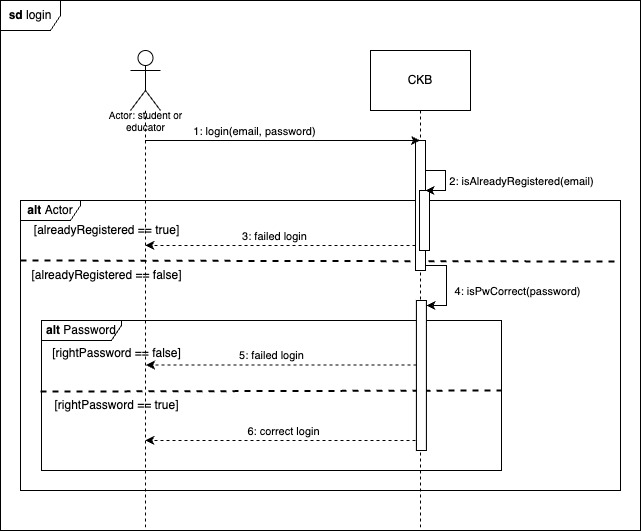
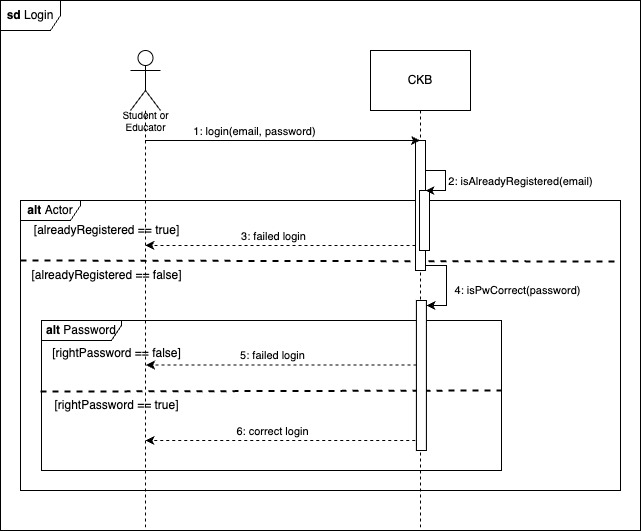
Update use cases and sequence diagrams

diff --git a/RASD/chapters/03_specific_requirements.tex b/RASD/chapters/03_specific_requirements.tex
@@ -31,22 +31,22 @@ network (LTE/3G/4G/5G).\\
 {1}
 {Login}
 {Student, Educator}
-{The actor is already registered in the system}
+{The actor is already registered in the system.}
 {
     \begin{enumerate}
-        \item The actor requires the Login Page
-        \item The system shows the Login Page to the actor
-        \item The actor inserts the credentials (email and passwors) in the form
-        \item The actor submits the form and sends it to the system
-        \item The system processes the information and shows a success message redirecting the user to the homepage
+        \item The actor requires the Login Page.
+        \item The system shows the Login Page to the actor.
+        \item The actor inserts the credentials (email and passwors) in the form.
+        \item The actor submits the form and sends it to the system.
+        \item The system processes the information and shows a success message redirecting the user to the homepage.
     \end{enumerate}
 }
-{The actor is correctly logged in and the homepage is displayed}
+{The actor is correctly logged in and the homepage is displayed.}
 {
-    The provided email or password submitted is wrong
+    The provided email or password submitted is wrong.
 }
 {
-    In case of exception the system will notify user with a human-readable message
+    In case of exception the system will notify user with a human-readable message.
 }
 \clearpage
 
@@ -54,41 +54,87 @@ network (LTE/3G/4G/5G).\\
 {2}
 {Registration} % name
 {Student, Educator, Email Service, GitHub Service} % actor
-{The actor browses and opens the webapp} % entry condition
+{The actor browses and opens the webapp.} % entry condition
 { % event flow
     \begin{enumerate}
-        \item The actor clicks the 'Sign up' button 
-        \item The actor fills the sign-up form with email and password
-        \item The actor submits the form and sends it to the system
-        \item The system calls Email Service API to send to the actor an email containing a secret code
-        \item The Email Service sends the email to the actor
-        \item The actor submits the received verification code
-        \item The system displays a success message about the verification of the email
-        \item The actor adds his personal information (name, surname, birth date) and submits the form
-        \item The student adds his GitHub username and submits the information
-        \item The system calls GitHub Service API to check if the username is valid
-        \item The GitHub Service sends the response to the system
-        \item The system displays a success message about the verification of GitHub username
-        \item The system processes the provided information and creates a new account
+        \item The actor clicks the 'Sign up' button.
+        \item The actor fills the sign-up form with email and password and submits the form.
+        \item The system calls Email Service API to send to the actor an email containing a secret code.
+        \item The Email Service sends the email to the actor.
+        \item The actor submits the received verification code.
+        \item The system displays a success message.
+        \item The actor adds his personal information (name, surname, birth date) and submits the form.
+        \item The student adds his GitHub username and submits the information.
+        \item The system calls GitHub Service API to check if the username is valid.
+        \item The GitHub Service sends the response to the system.
+        \item The system displays a success message about the verification of GitHub username.
+        \item The system processes the provided information and creates a new account.
     \end{enumerate}
 }
-{The actor signed up correctly} % exit condition
+{The actor signed up correctly.} % exit condition
 { % exceptions
     \begin{enumerate}
-        \item A required registration field is missing when the form is submitted
-        \item A provided email is already registered in the system
-        \item A wrong verification code is submitted
-        \item A wrong GitHub username is submitted
+        \item A required registration field is missing when the form is submitted.
+        \item A provided email is already registered in the system.
+        \item A wrong verification code is submitted.
+        \item A wrong GitHub username is submitted.
     \end{enumerate}
 }
 { % notes
-    All the exceptions are treated the same: the system will notify user with a human-readable message and the system asks to retry
+In case of exception the system will notify user with a human-readable message.
+}
+
+\usecase
+{10}
+{Evaluation} % name
+{Student, Educator, GitHub Service} % actor
+{The student has committed the code.} % entry condition
+{ % event flow
+    \begin{enumerate}
+        \item The student pushes the code to GitHub.
+        \item The GitHub service notify the system about the new push.
+        \item The system pulls the code from GitHub service.
+        \item The GitHub service provides the requested code to the system.
+        \item The system makes the automatic evaluation.
+        \item The system sets the calcutaed score to the code.
+        \item The system notify the student about the evaluation and the score assigned to his code.
+        \item The educator can get the code from the system.
+        \item The system provides the code to the educator.
+        \item The educator can manually evaluate the code at the end of the battle and set a score.
+        \item The system updates the score.
+    \end{enumerate}
+}
+{The system sends an email to the students.} % exit condition
+{ % exceptions
+ None. 
+}
+{ % notes
+}
+\clearpage
+
+\usecase
+{14}
+{Profile visualization} % name
+{Student, Educator} % actor
+{The actor is logged-in in the system.} % entry condition
+{ % event flow
+    \begin{enumerate}
+        \item The actor searches a student profile.
+        \item The system returns the selected student profile.
+    \end{enumerate}
+}
+{The actor visualizes the personal information of the student.} % exit condition
+{ % exceptions
+ The selected profile does not exist. 
+}
+{ % notes
+In case of exception the system will notify user with a human-readable message.
 }
 
 \subsection{Sequence Diagrams}
 \begin{figure}[H]
     \centering
-    \includegraphics[width=0.8\textwidth]{images/seq_diagrams/Registration.jpg}
+    \includegraphics[width=0.95\textwidth]{images/seq_diagrams/Registration.jpg}
     \caption{Registration sequence diagram}
     \label{fig:sequence_diagram}
 \end{figure}
@@ -96,8 +142,24 @@ network (LTE/3G/4G/5G).\\
 
 \begin{figure}[H]
     \centering
-    \includegraphics[width=0.8\textwidth]{images/seq_diagrams/Login.jpg}
-    \caption{Registration sequence diagram}
+    \includegraphics[width=0.95\textwidth]{images/seq_diagrams/Login.jpg}
+    \caption{Login sequence diagram}
+    \label{fig:sequence_diagram}
+\end{figure}
+\clearpage
+
+\begin{figure}[H]
+    \centering
+    \includegraphics[width=0.95\textwidth]{images/seq_diagrams/Evaluation.jpg}
+    \caption{Evaluation sequence diagram}
+    \label{fig:sequence_diagram}
+\end{figure}
+\clearpage
+
+\begin{figure}[H]
+    \centering
+    \includegraphics[width=0.9\textwidth]{images/seq_diagrams/ProfileVis.jpg}
+    \caption{Profile visualization sequence diagram}
     \label{fig:sequence_diagram}
 \end{figure}
 \clearpage
@@ -113,4 +175,3 @@ network (LTE/3G/4G/5G).\\
 \subsection{Security}
 \subsection{Maintainability}
 \subsection{Portability}
-

diff --git a/RASD/RASD.tex b/RASD/RASD.tex
@@ -14,7 +14,7 @@
 
 \newcommand{\usecase}[8]{
     \def\arraystretch{1.5} % This adds padding to table rows (and more)
-    \subsubsection*{U#1: #2}
+    \subsubsection*{UC#1: #2}
     \vspace*{0.1cm}
     \begin{center}
      \begin{tabular}{|l|p{12cm}|}
